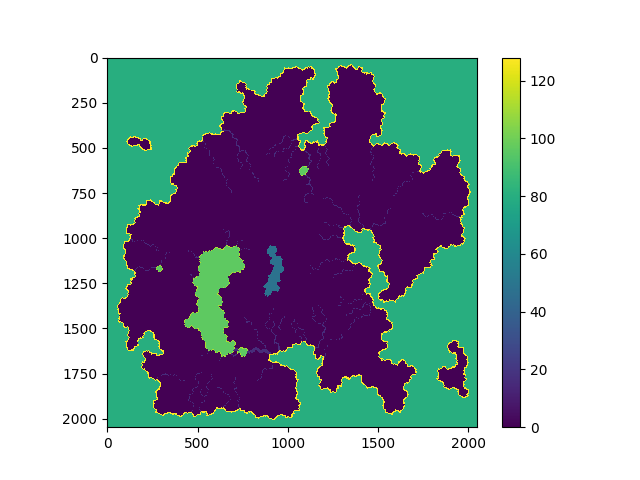
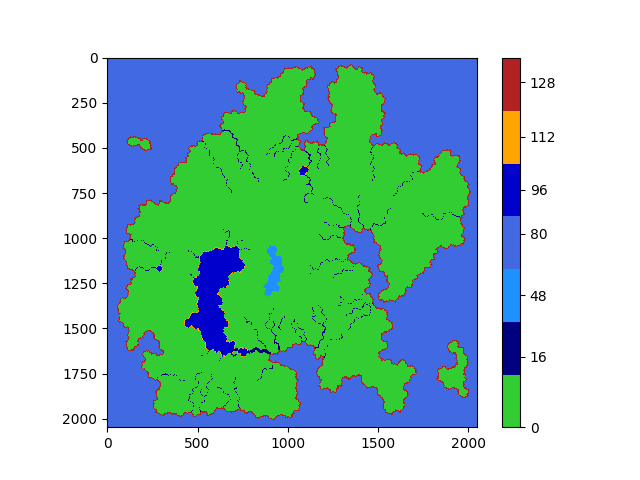
update map of override

diff --git a/python_scripts/loader.py b/python_scripts/loader.py
@@ -46,6 +46,8 @@ import matplotlib
 bounds = [0, 8, 32, 64, 88, 104, 120, 135]
 bounds_val = [x for x in res.keys()]
 print(bounds_val)
+for x in res.keys():
+    print("{}, {:08b}".format(x,x))
 
 # cmap_10 = plt.cm.get_cmap('Dark2', 7) 
 cmap_7 = matplotlib.colors.ListedColormap(["limegreen", "navy", "dodgerblue", "royalblue", "mediumblue", "orange", "firebrick"])
@@ -55,7 +57,7 @@ norm = matplotlib.colors.BoundaryNorm(bounds, cmap_7.N, clip=True)
 plt.figure()
 plt.imshow(elevation_map, cmap="viridis")
 plt.colorbar()
-plt.savefig('elevation_map.png')
+plt.savefig('../maps/elevation_map.png')
 plt.close()
 
 # color_img = cv2.cvtColor(overrides_map, cv2.COLOR_GRAY2RGB)
@@ -63,6 +65,6 @@ plt.close()
 plt.figure()
 plt.imshow(overrides_map, cmap=cmap_7, norm=norm)
 plt.colorbar(ticks=bounds_val)
-plt.savefig('overrides_map.png')
+plt.savefig('../maps/overrides_map.png')
 
 plt.show()
